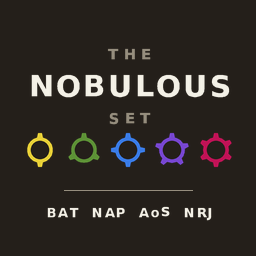
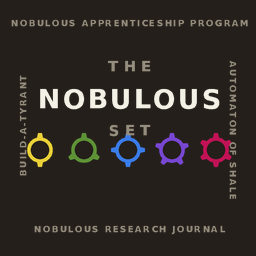
The cover names the four games in full
The three-letter codes are what the set calls them everywhere else
and they tell a stranger nothing, so the cover spells them out and
frames itself with them: Build-a-Tyrant left, Nobulous
Apprenticeship Program top, Automaton of Shale right, Nobulous
Research Journal bottom. Jon's placing, named per game rather than
zipped against a tuple of sides, so moving one is moving one.

ONE TYPE SIZE FOR ALL FOUR, set by the longest. Fitting each name
to its own edge gives a fourteen-character side in large caps
opposite a thirty-one character one in small, and a frame of four
names has to read as one frame.

The bottom one is not upside down. A strict clockwise frame turns
it through 180 and nobody reads a cover upside down, so the two
verticals turn and the two horizontals do not. NOBULOUS drops from
30 to 27, which is what stops the title running into the two
vertical names.

diff --git a/tts/make_cover.py b/tts/make_cover.py
@@ -43,6 +43,17 @@ SAVES = os.path.join(os.path.expanduser("~"), "Documents", "My Games",
                      "Tabletop Simulator", "Saves")
 
 
+# WHICH NAME SITS ON WHICH EDGE, Jon's placing rather than the order
+# the boxes sit in. Named here instead of zipped against a tuple of
+# sides, so moving one is moving one.
+GAMES = [("BAT", "Build-a-Tyrant", "left"),
+         ("NAP", "Nobulous Apprenticeship Program", "top"),
+         ("AoS", "Automaton of Shale", "right"),
+         ("NRJ", "Nobulous Research Journal", "bottom")]
+EDGE_INSET = 13          # how far the names sit in from the border
+EDGE_MARGIN = 20         # clear of the corners, so four lines do not meet
+
+
 def spaced(d, text, y, px, fill, track):
     """One centred line, letterspaced, the way the card backs set it.
 
@@ -58,6 +69,57 @@ def spaced(d, text, y, px, fill, track):
         if ch != " ":
             glyphs.draw_text(d, (x, y), ch, px, fill, FONT)
         x += w + track
+
+
+def line_px(text, px, track):
+    """Width of one letterspaced line."""
+    w = [glyphs.text_size(ch, px, FONT)[0] for ch in text]
+    return sum(w) + track * (len(text) - 1), w
+
+
+def edge_size(track):
+    """One type size for all four names, set by the longest.
+
+    Fitting each name to its own edge would give four sizes - a
+    fourteen-character edge in large caps opposite a thirty-one
+    character one in small - and a frame of four names has to read
+    as one frame.
+    """
+    run = SIDE - 2 * EDGE_MARGIN
+    px = 12.0
+    while px > 4.0:
+        if max(line_px(n, px, track)[0] for _, n, _s in GAMES) <= run:
+            return px
+        px -= 0.25
+    return px
+
+
+def edge(im, text, side, px, track, fill):
+    """One name along one edge, reading clockwise from the top.
+
+    Drawn flat into its own tile and turned, because a letterspaced
+    line is laid out a character at a time and rotating each glyph
+    would scatter them.
+    """
+    w, widths = line_px(text, px, track)
+    tile = Image.new("RGBA", (int(w) + 8, int(px * 1.9) + 8), (0, 0, 0, 0))
+    x = 4.0
+    base = px * 1.35
+    for ch, cw in zip(text, widths):
+        if ch != " ":
+            glyphs.draw_text(tile, (x, base), ch, px, fill, FONT)
+        x += cw + track
+    # THE BOTTOM READS THE RIGHT WAY UP. Running the frame strictly
+    # clockwise turns it through 180 and nobody reads a cover upside
+    # down; the two verticals turn, the two horizontals do not.
+    tile = tile.rotate({"top": 0, "right": -90, "bottom": 0,
+                        "left": 90}[side], expand=True)
+    tw, th = tile.size
+    pos = {"top": ((SIDE - tw) // 2, EDGE_INSET),
+           "bottom": ((SIDE - tw) // 2, SIDE - EDGE_INSET - th),
+           "left": (EDGE_INSET, (SIDE - th) // 2),
+           "right": (SIDE - EDGE_INSET - tw, (SIDE - th) // 2)}[side]
+    im.alpha_composite(tile, pos)
 
 
 def cover():
@@ -85,12 +147,21 @@ def cover():
                    fill=DARK + (255,))
     im.alpha_composite(big.resize((SIDE, SIDE), Image.LANCZOS))
 
-    spaced(im, "THE", 58, 15, MUTED, 5.0)
-    spaced(im, "NOBULOUS", 95, 30, CREAM, 2.0)
-    spaced(im, "SET", 122, 15, MUTED, 5.0)
-    d = ImageDraw.Draw(im)
-    d.line([64, 190, SIDE - 64, 190], fill=MUTED, width=1)
-    spaced(im, "BAT  NAP  AoS  NRJ", 215, 13, CREAM, 1.5)
+    spaced(im, "THE", 70, 15, MUTED, 5.0)
+    # 27, not 30: at 30 the word runs within a few pixels of the two
+    # vertical names and the frame closes in on the title.
+    spaced(im, "NOBULOUS", 107, 27, CREAM, 2.0)
+    spaced(im, "SET", 134, 15, MUTED, 5.0)
+
+    # THE FOUR GAMES AROUND THE EDGE, spelled out. The three-letter
+    # codes are what the set calls them everywhere else, and they
+    # tell a stranger nothing; a cover has room to say them once.
+    # Clockwise from the top, in the order the boxes sit on the
+    # table.
+    track = 1.4
+    px = edge_size(track)
+    for _code, name, side in GAMES:
+        edge(im, name.upper(), side, px, track, MUTED)
     return im.convert("RGB")
 
 
